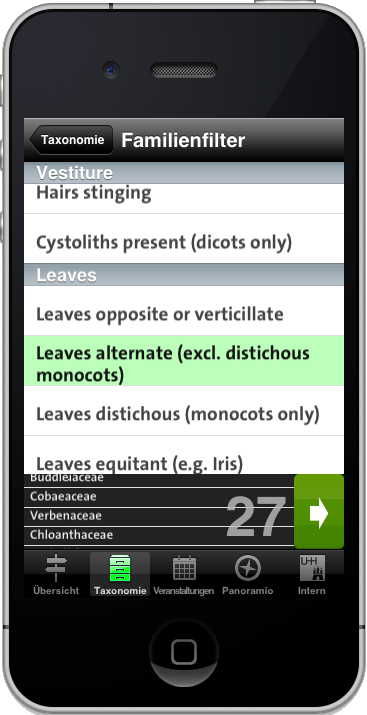
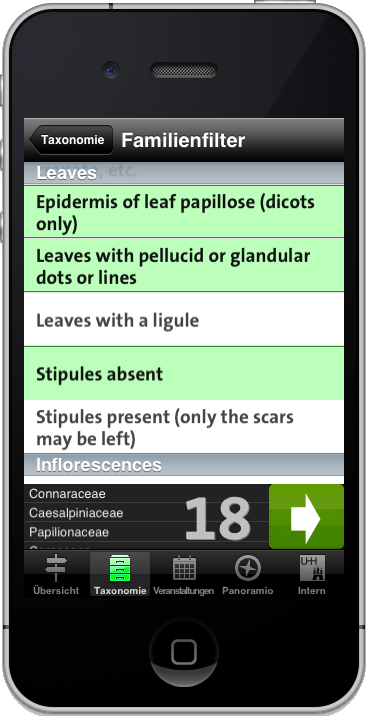
Screenshot

diff --git a/Resources/module/TEMPLATES.js b/Resources/module/TEMPLATES.js
@@ -148,6 +148,22 @@ exports.filterrow_selected = {
 			width : Ti.UI.FILL,
 			bottom : Ti.UI.CONF.padding / 2
 		}
+	}, {
+		type : 'Ti.UI.View',
+		properties : {
+			backgroundColor : '#383',
+			height : 0.6,
+			bottom : 0,
+			width : Ti.UI.FILL
+		}
+	}, {
+		type : 'Ti.UI.View',
+		properties : {
+			backgroundColor : '#383',
+			height : 0.6,
+			top : 0,
+			width : Ti.UI.FILL
+		}
 	}]
 };
 exports.familystrip = {

diff --git a/Resources/module/taxo.filter.window.js b/Resources/module/taxo.filter.window.js
@@ -79,10 +79,10 @@ exports.create = function(_ordnung) {
 				y : 1
 			},
 			shadowColor : 'gray',
-			height : 56,
+			height : 64,
 			opacity : 0.3,
-			bottom : 5,
-			right : 10
+			top : 10,
+			right : 5
 		});
 		self.familylist.add(self.total)
 		self.listview_of_filterquestions.addEventListener('itemclick', function(_e) {
